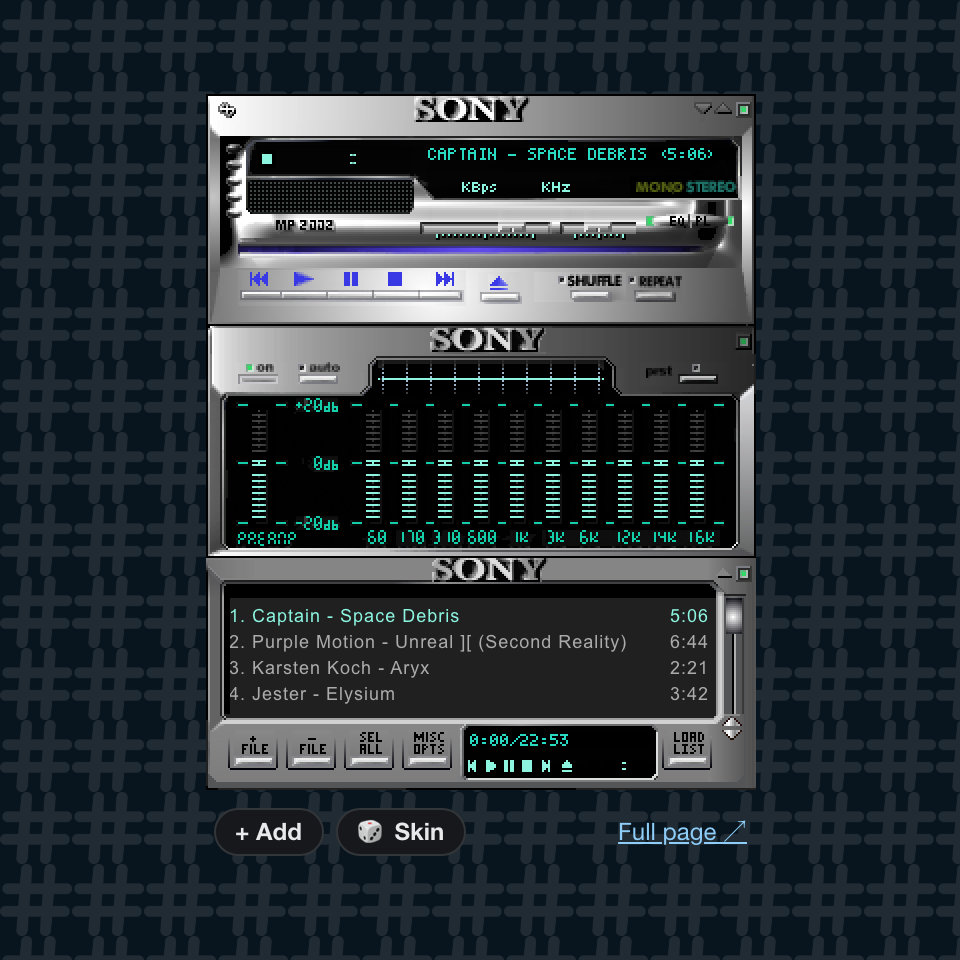
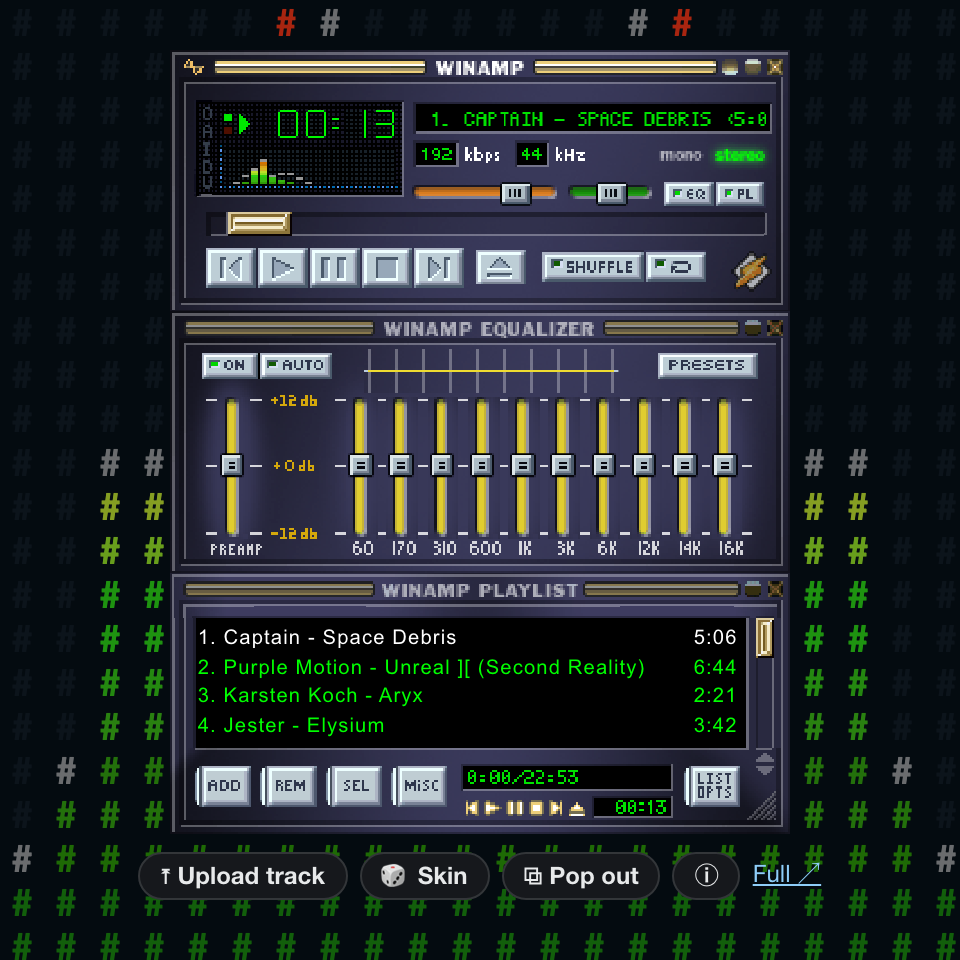
Winamp: the # backdrop is a spectrum analyser, ⓘ for help and credits, the player fills its frame - the backdrop: tweetpad's # in a grid, lit from the bottom as Winamp's spectrum analyser (Webamp's analyser), in the   skin's own VISCOLOR colours with peak dots; still and dim when nothing plays - the

diff --git a/winamp.html b/winamp.html
@@ -18,7 +18,7 @@
 <meta name="twitter:player:width" content="480">
 <meta name="twitter:player:height" content="480">
 <meta name="twitter:image" content="https://www.tweetpad.io/assets/winamp-card.png">
-<meta name="twitter:image:alt" content="Winamp with the Sony 2000 SE skin">
+<meta name="twitter:image:alt" content="Winamp in its classic skin, with tweetpad's # lit up as a spectrum analyser">
 <meta property="og:title" content="Winamp on tweetpad">
 <meta property="og:description" content="Winamp inside a tweet: tracker classics, 90,000 skins, your own music.">
 <meta property="og:image" content="https://www.tweetpad.io/assets/winamp-card.png">
@@ -37,41 +37,48 @@
   .bar { display: flex; align-items: center; gap: 6px; min-width: 0; }
   .status { min-width: 0; overflow: hidden; text-overflow: ellipsis; white-space: nowrap; color: var(--dim); font-size: 12px; }
   .status:empty { display: none; }
-  #wa-stage { position: relative; width: 275px; height: 348px; flex: none; }
-  .tools { width: 275px; padding: 5px 4px; }
+  #wa-stage { position: relative; width: 275px; height: 348px; flex: none; zoom: var(--pz, 1); }   /* --pz: the player's scale, set by winamp.js */
+  .tools { justify-content: center; padding: 5px 4px; }
 
   /* the frame: the player and its controls, at tweetpad's size (480 square, like the card on X) on the full page and in
      the X card, and just the player in the pop-out */
   .frame { position: relative; display: flex; flex-direction: column; align-items: center; justify-content: center; gap: 4px;
-    width: 480px; height: 480px; max-width: 100%; overflow: hidden; background: #0b1a26; }
-  .frame::before { content: ""; position: absolute; inset: 0; background: url("assets/brand/hash-white.png") 0 0 / 36px 36px repeat; opacity: .1; pointer-events: none; }
+    width: 480px; height: 480px; max-width: 100%; overflow: hidden; background: rgba(4, 10, 16, .45); }
   .frame > * { position: relative; }
+  #webamp * { image-rendering: pixelated; }   /* skins are pixel art: scaled up, they stay sharp */
+  /* the backdrop: a grid of tweetpad's # lit as Winamp's spectrum analyser (assets/winamp.js draws it) */
+  #wa-vis { position: fixed; inset: 0; width: 100vw; height: 100vh; pointer-events: none; }
+  html[data-mode="popup"] #wa-vis { display: none; }
   .frame .full { margin-left: auto; font-size: 12px; white-space: nowrap; }
   html:not([data-mode="embed"]) .frame .full, html[data-mode="popup"] #wa-pop { display: none; }
 
-  /* full page: tweetpad blue with the # mark printed over it, the frame in the middle, credits under it */
+  /* full page: the visualizer behind, and the frame in the middle at the landing page's size for tweetpad (480 square) */
   html[data-mode="page"] body { display: flex; flex-direction: column; align-items: center; justify-content: center; gap: 12px;
-    min-height: 100vh; padding: 16px; background: url("assets/brand/hash-white.png") 0 0 / 48px 48px repeat, #1da1f2; }
-  html[data-mode="page"] body::before { content: ""; position: fixed; inset: 0; background: rgba(13, 120, 190, .82); pointer-events: none; }
-  html[data-mode="page"] body > * { position: relative; }
-  html[data-mode="page"] .frame { border: 1px solid rgba(0, 0, 0, .35); border-radius: 12px; box-shadow: 0 12px 40px rgba(0, 0, 0, .35); }
+    min-height: 100vh; padding: 16px; background: #050b10; }
+  html[data-mode="page"] body > :not(#wa-vis, div) { position: relative; }
+  html[data-mode="page"] .frame { width: min(480px, 100%); height: auto; aspect-ratio: 1 / 1; border: 1px solid rgba(255, 255, 255, .16);
+    border-radius: 6px; box-shadow: 0 12px 40px rgba(0, 0, 0, .5); backdrop-filter: blur(2px); }
   .brand { display: flex; align-items: center; gap: 8px; color: #fff; text-decoration: none; font: 600 22px/1 "Fredoka", "Arial Rounded MT Bold", sans-serif; }
   .brand img { width: 28px; height: 28px; }
   .brand span { color: #fff; opacity: .7; font-size: 18px; }
-  footer { width: 480px; max-width: 100%; color: #dbe9f3; font-size: 12px; }
-  footer p { margin: 0 0 4px; }
+  /* ⓘ: how to use it and the credits, over the bottom of the frame */
+  .info { position: absolute; left: 8px; right: 8px; bottom: 8px; z-index: 10; max-height: calc(100% - 16px); overflow: auto; padding: 10px 12px;
+    color: #dbe9f3; font-size: 12px; background: rgba(5, 11, 16, .94); border: 1px solid #333639; border-radius: 8px; box-shadow: 0 8px 24px rgba(0, 0, 0, .5); }
+  .info p { margin: 0 0 6px; }
+  .info p:last-child { margin: 0; }
 
   /* the X card fills its 480 frame; the pop-out is the player and one line of controls, nothing around them */
-  html:not([data-mode="page"]) .brand, html:not([data-mode="page"]) footer { display: none; }
+  html:not([data-mode="page"]) .brand { display: none; }
   html:not([data-mode="page"]) body { overflow: hidden; }
-  html[data-mode="embed"] .frame { width: 100vw; height: 100vh; }
-  html[data-mode="embed"] .tools { width: auto; }
-  html[data-mode="popup"] .frame { width: 275px; height: auto; justify-content: flex-start; gap: 0; background: #000; }
-  html[data-mode="popup"] .frame::before { display: none; }
+  html[data-mode="embed"] .frame { width: 100vw; height: 100vh; background: rgba(4, 10, 16, .3); }
+  html[data-mode="embed"] body { background: #050b10; }
+  html[data-mode="popup"] .frame { width: 275px; height: 100vh; justify-content: flex-start; gap: 0; background: #000; }
+  html[data-mode="popup"] .tools { width: 275px; justify-content: flex-start; }
   body > div { position: absolute; }   /* Webamp's own layer at the end of body, kept out of the flow */
 </style>
 </head>
 <body>
+<canvas id="wa-vis" aria-hidden="true"></canvas>
 <a class="brand" href="/"><img src="assets/brand/tweetpad-hash-180.png" alt="">tweetpad <span>· Winamp</span></a>
 <main class="frame">
   <div id="wa-stage"></div>
@@ -80,23 +87,24 @@
     <button id="wa-random" type="button">🎲 Skin</button>
     <button id="wa-reopen" type="button" hidden>Reopen</button>
     <button id="wa-pop" type="button" title="Winamp in its own small window">⧉ Pop out</button>
+    <button id="wa-info-btn" type="button" aria-expanded="false" aria-controls="wa-info" title="How to use it, and credits">ⓘ</button>
     <span class="status" id="wa-status"></span>
     <a class="full" href="/winamp" target="_blank" rel="noopener">Full ↗</a>
   </div>
+  <div class="info" id="wa-info" hidden>
+    <p>Drop tracker modules (.mod .xm .s3m .it), MP3s or a .wsz skin anywhere on the player, or right-click it for skins and
+      options. Your files stay in your browser.</p>
+    <p>Music: <a href="https://modarchive.org/module.php?57925" target="_blank" rel="noopener">Space Debris</a> by Captain,
+      <a href="https://modarchive.org/module.php?212083" target="_blank" rel="noopener">Unreal ][</a> by Purple Motion,
+      <a href="https://modarchive.org/module.php?191789" target="_blank" rel="noopener">Aryx</a> by Karsten Koch,
+      <a href="https://modarchive.org/module.php?40475" target="_blank" rel="noopener">Elysium</a> by Jester and
+      <a href="https://modarchive.org/module.php?42560" target="_blank" rel="noopener">Guitar Slinger</a> by Jogeir Liljedahl, played from
+      <a href="https://modarchive.org" target="_blank" rel="noopener">The Mod Archive</a>.
+      <a href="https://webamp.org" target="_blank" rel="noopener">Webamp</a> by Jordan Eldredge, skins from the
+      <a href="https://skins.webamp.org" target="_blank" rel="noopener">Winamp Skin Museum</a>, modules played with libopenmpt.
+      Not affiliated with Winamp.</p>
+  </div>
 </main>
-<footer>
-  <p>Drop tracker modules (.mod .xm .s3m .it), MP3s or a .wsz skin anywhere on the player, or right-click it for skins and
-    options. Your files stay in your browser.</p>
-  <p>Music: <a href="https://modarchive.org/module.php?57925" target="_blank" rel="noopener">Space Debris</a> by Captain,
-    <a href="https://modarchive.org/module.php?212083" target="_blank" rel="noopener">Unreal ][</a> by Purple Motion,
-    <a href="https://modarchive.org/module.php?191789" target="_blank" rel="noopener">Aryx</a> by Karsten Koch,
-    <a href="https://modarchive.org/module.php?40475" target="_blank" rel="noopener">Elysium</a> by Jester and
-    <a href="https://modarchive.org/module.php?42560" target="_blank" rel="noopener">Guitar Slinger</a> by Jogeir Liljedahl, played from
-    <a href="https://modarchive.org" target="_blank" rel="noopener">The Mod Archive</a>.
-    <a href="https://webamp.org" target="_blank" rel="noopener">Webamp</a> by Jordan Eldredge, skins from the
-    <a href="https://skins.webamp.org" target="_blank" rel="noopener">Winamp Skin Museum</a>, modules played with libopenmpt.
-    Not affiliated with Winamp.</p>
-</footer>
 <input type="file" id="wa-file" multiple hidden accept="audio/*,.mp3,.ogg,.wav,.flac,.m4a,.mod,.xm,.s3m,.it,.mptm,.669,.mtm,.med,.okt,.stm,.ult,.umx,.mo3,.wsz,.zip">
 <script src="https://cdn.jsdelivr.net/npm/webamp@2.3.1/built/webamp.bundle.min.js"></script>
 <script src="assets/winamp.js"></script>

diff --git a/assets/winamp.js b/assets/winamp.js
@@ -9,6 +9,8 @@
   const SKIN_MUSEUM = 'https://api.webamp.org/graphql';
   const skinUrl = (md5) => 'https://r2.webampskins.org/skins/' + md5 + '.wsz';
   const DEFAULT_SKIN = 'd585200e36246e65959d93a71cc4579b';   // Sony_2000_SE.wsz
+  const askedSkin = (new URLSearchParams(location.search).get('skin') || '').toLowerCase();   // ?skin=<museum md5>, to share a look
+  const firstSkin = /^[0-9a-f]{32}$/.test(askedSkin) ? askedSkin : DEFAULT_SKIN;
   const SKINS = [   // the right-click menu's Skins list
     ['Sony 2000 SE', DEFAULT_SKIN],
     ['Winamp3 Classified', 'cd251187a5e6ff54ce938d26f1f2de02'],
@@ -17,7 +19,7 @@
     ['Microchip 2', '03a967351bc69b83a3c063782997d434'],
     ['PlasTech', 'eaa2bdf27a82632543cd5fe319a71d45'],
   ];
-  /* the preloaded playlist: well-loved modules on The Mod Archive, played from their copy, credited in the page footer */
+  /* the preloaded playlist: well-loved modules on The Mod Archive, played from their copy, credited under ⓘ */
   const MODS = [
     { id: 57925, artist: 'Captain', title: 'Space Debris' },
     { id: 212083, artist: 'Purple Motion', title: 'Unreal ][ (Second Reality)' },
@@ -62,7 +64,7 @@
   const status = (s) => { $('wa-status').textContent = s || ''; };
   if (!window.Webamp || !Webamp.browserIsSupported()) { status('This browser can\'t run Winamp.'); return; }
   const app = new Webamp({
-    initialSkin: { url: skinUrl(DEFAULT_SKIN) },
+    initialSkin: { url: skinUrl(firstSkin) },
     availableSkins: SKINS.map(([name, md5]) => ({ name, url: skinUrl(md5) })),
     enableHotkeys: false,   // the page is small, and on X the keys belong to the post
     /* a drop with tracker modules or a skin in it is ours; anything else, Webamp handles (null) */
@@ -101,6 +103,11 @@
     const w = window.open('/winamp?popup', 'tweetpad-winamp', 'popup,width=275,height=382');
     if (w) { app.pause(); w.focus(); }
   });
+  /* ⓘ opens the panel; it covers the controls, so a click on it (not on a link), a click elsewhere or Esc closes it */
+  const showInfo = (open) => { $('wa-info').hidden = !open; $('wa-info-btn').setAttribute('aria-expanded', String(open)); };
+  $('wa-info-btn').addEventListener('click', (e) => { e.stopPropagation(); showInfo($('wa-info').hidden); });
+  document.addEventListener('click', (e) => { if (!$('wa-info').hidden && !e.target.closest('#wa-info a')) showInfo(false); });
+  document.addEventListener('keydown', (e) => { if (e.key === 'Escape') showInfo(false); });
   $('wa-add').addEventListener('click', () => {
     pick.onchange = async () => { app.appendTracks(await tracksFromFiles([...pick.files])); pick.value = ''; };
     pick.click();
@@ -121,4 +128,84 @@
       }
     } catch { /* the museum is down: keep the current skin */ } finally { btn.disabled = false; }
   });
+
+  /* ---------- the player scales to fill its frame (480 square on the full page and on X: 1.25x), in eighths so the pixel art
+     stays even; the pop-out is the player's own size ---------- */
+  function fit() {
+    if (mode === 'popup') return;
+    const f = stage.parentElement.getBoundingClientRect();
+    const z = Math.floor(Math.min((f.width - 16) / 275, (f.height - 50) / 348) * 8) / 8;
+    document.documentElement.style.setProperty('--pz', String(Math.max(0.75, Math.min(1.5, z))));
+  }
+  fit();
+  new ResizeObserver(fit).observe(stage.parentElement);
+
+  /* ---------- the backdrop: tweetpad's # in a grid, lit from the bottom as Winamp's spectrum analyser in the skin's own
+     colours (VISCOLOR: 2 to 17 are the bars top to bottom, 23 the peak dots). Still and dim when nothing plays ---------- */
+  const vis = $('wa-vis');
+  if (mode === 'popup' || !vis) return;
+  const ctx = vis.getContext('2d');
+  const CELL = 22;
+  const glyphs = new Map();   // one pre-drawn # per colour
+  const glyph = (color) => {
+    if (glyphs.has(color)) return glyphs.get(color);
+    const g = document.createElement('canvas');
+    g.width = g.height = CELL * devicePixelRatio;
+    const c = g.getContext('2d');
+    c.scale(devicePixelRatio, devicePixelRatio);
+    c.fillStyle = color;
+    c.font = '700 19px "Helvetica Neue", Helvetica, Arial, sans-serif';
+    c.textAlign = 'center'; c.textBaseline = 'middle';
+    c.fillText('#', CELL / 2, CELL / 2 + 1);
+    glyphs.set(color, g);
+    return g;
+  };
+  const DIM = 'rgba(120, 160, 190, .09)';
+  let freq = null, levels = [], peaks = [], last = '';
+  function frame() {
+    requestAnimationFrame(frame);
+    if (document.hidden) return;
+    const w = innerWidth, h = innerHeight;
+    if (vis.width !== Math.round(w * devicePixelRatio) || vis.height !== Math.round(h * devicePixelRatio)) {
+      vis.width = Math.round(w * devicePixelRatio); vis.height = Math.round(h * devicePixelRatio);
+      ctx.setTransform(devicePixelRatio, 0, 0, devicePixelRatio, 0, 0);
+      last = '';
+    }
+    const cols = Math.ceil(w / CELL), rows = Math.ceil(h / CELL);
+    const colors = (app.store.getState().display || {}).skinColors || [];
+    const playing = app.getMediaStatus && app.getMediaStatus() === 'PLAYING';
+    const analyser = app.media && app.media.getAnalyser && app.media.getAnalyser();
+    let moving = false;
+    if (playing && analyser) {
+      if (!freq || freq.length !== analyser.frequencyBinCount) freq = new Uint8Array(analyser.frequencyBinCount);
+      analyser.getByteFrequencyData(freq);
+    }
+    for (let c = 0; c < cols; c++) {
+      /* columns are log-spaced over the useful part of the spectrum, like Winamp's 19 bars, mirrored from the centre out */
+      const k = Math.abs(c - (cols - 1) / 2) / (cols / 2);
+      let v = 0;
+      if (playing && freq) {
+        const lo = Math.floor(2 * Math.pow(freq.length * 0.6 / 2, k)), hi = Math.max(lo + 1, Math.floor(2 * Math.pow(freq.length * 0.6 / 2, k + 1 / cols * 2)));
+        for (let i = lo; i < hi; i++) v = Math.max(v, freq[i]);
+        v = Math.pow(v / 255, 1.6);
+      }
+      levels[c] = Math.max(v, (levels[c] || 0) - 0.025);
+      peaks[c] = Math.max(levels[c], (peaks[c] || 0) - 0.006);
+      if (levels[c] > 0 || peaks[c] > 0) moving = true;
+    }
+    if (!moving && last === 'still') return;   // nothing playing and already drawn still
+    last = moving ? 'moving' : 'still';
+    ctx.clearRect(0, 0, w, h);
+    for (let c = 0; c < cols; c++) {
+      const lit = Math.round(levels[c] * rows), peak = rows - 1 - Math.min(rows - 1, Math.round(peaks[c] * rows));
+      for (let r = 0; r < rows; r++) {
+        const fromBottom = rows - 1 - r;
+        let color = DIM;
+        if (fromBottom < lit) color = colors[17 - Math.min(15, Math.floor(fromBottom / rows * 16))] || '#3c3';
+        else if (r === peak && peaks[c] > 0.02) color = colors[23] || '#ccc';
+        ctx.drawImage(glyph(color), c * CELL, r * CELL, CELL, CELL);
+      }
+    }
+  }
+  requestAnimationFrame(frame);
 })();
